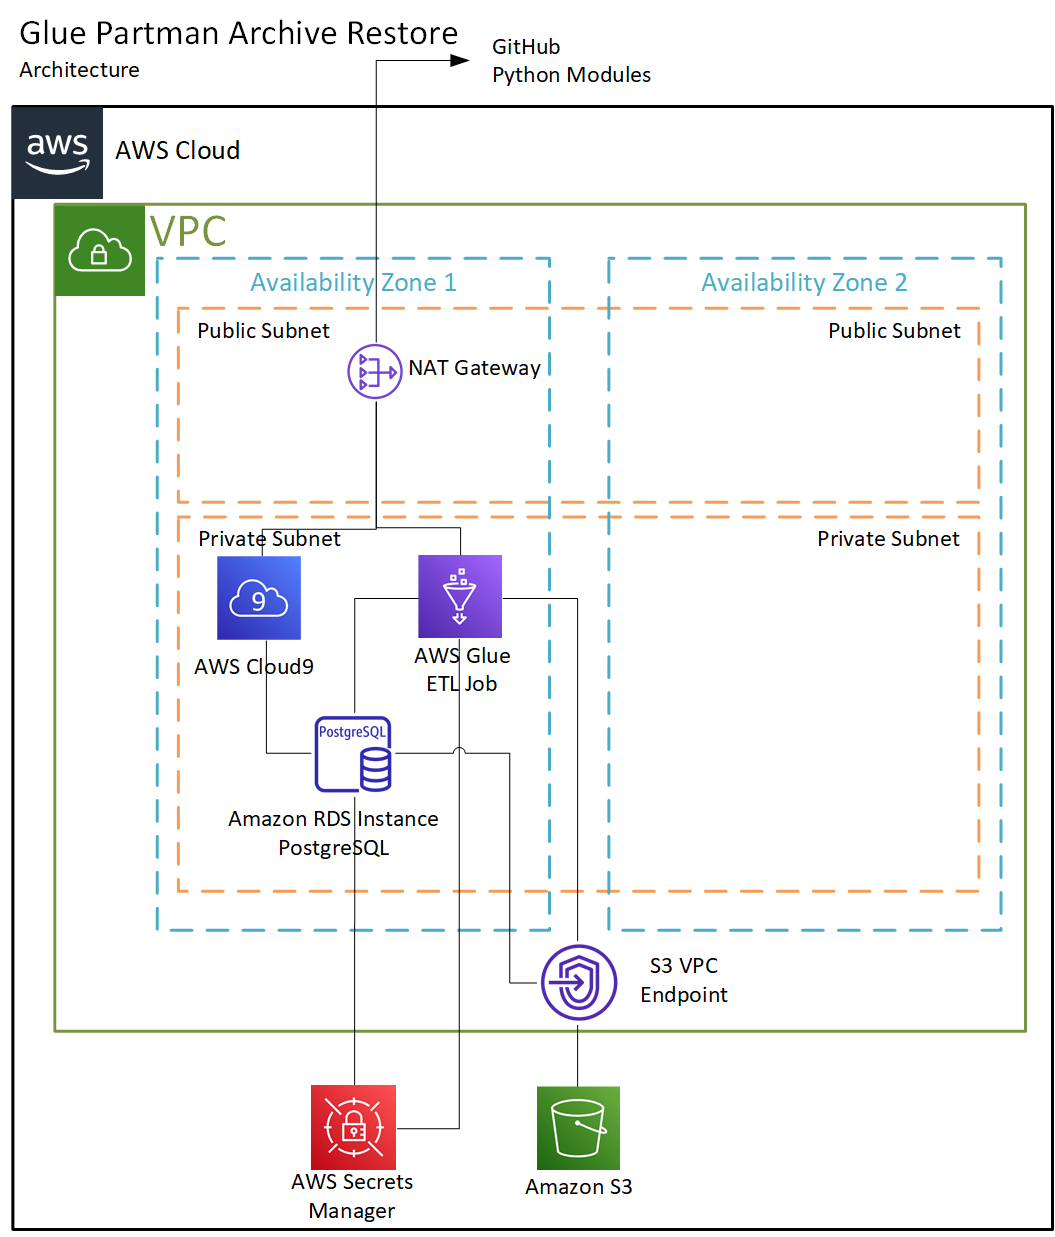
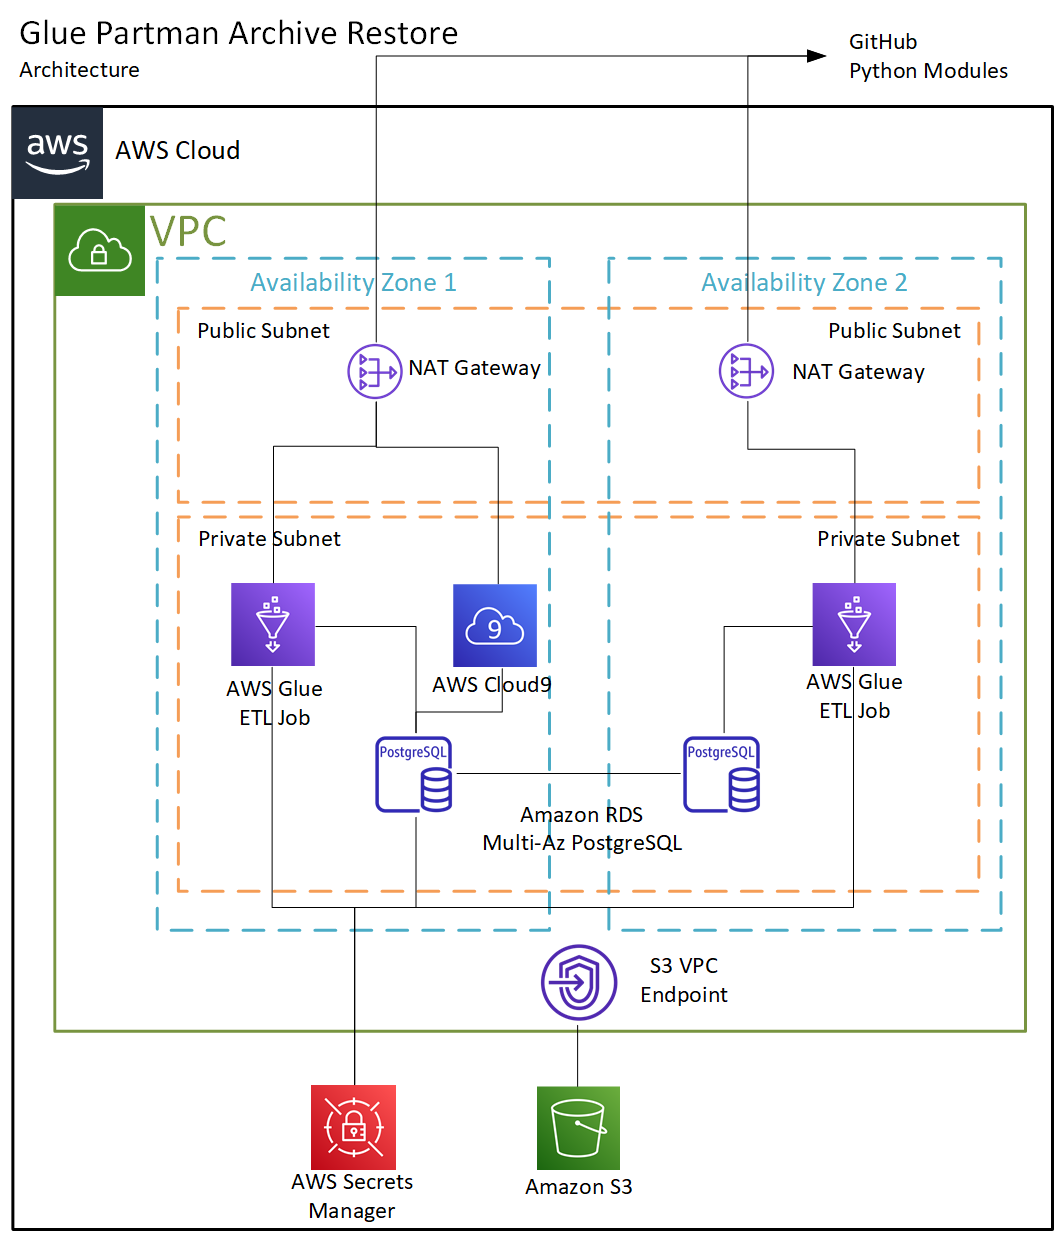
modified:   cdk_glue_archive_restore/db_stack.py 	modified:   cdk_glue_archive_restore/glue_stack.py 	modified:   cdk_glue_archive_restore/vpc_stack.py 	modified:   images/architecture.png

diff --git a/cdk_glue_archive_restore/glue_stack.py b/cdk_glue_archive_restore/glue_stack.py
@@ -189,6 +189,26 @@ class GlueStack(Stack):
                 },
                 physical_connection_requirements = glue.CfnConnection.PhysicalConnectionRequirementsProperty(
                     security_group_id_list = [db_stack.db_security_group.security_group_id, glue_security_group.security_group_id],
+                    subnet_id = vpc_stack.private_subnets.subnets[0].subnet_id,
+                    availability_zone = vpc_stack.private_subnets.subnets[0].availability_zone,
+                )
+            )
+        )
+        connection_name_b = "Database Ab"
+        glue_connection_b = glue.CfnConnection(self, connection_name_b,
+            catalog_id = self.account,
+            connection_input = glue.CfnConnection.ConnectionInputProperty(
+                name = connection_name_b,
+                description = "Connector to postgres database",
+                connection_type = "JDBC",
+                connection_properties = {
+                    "JDBC_CONNECTION_URL" : jdbc_url,
+                    "SECRET_ID" : db_secret.secret_name,
+                    "JDBC_ENFORCE_SSL" : False,
+                    "KAFKA_SSL_ENABLED" : False,
+                },
+                physical_connection_requirements = glue.CfnConnection.PhysicalConnectionRequirementsProperty(
+                    security_group_id_list = [db_stack.db_security_group.security_group_id, glue_security_group.security_group_id],
                     subnet_id = vpc_stack.private_subnets.subnets[1].subnet_id,
                     availability_zone = vpc_stack.private_subnets.subnets[1].availability_zone,
                 )
@@ -205,7 +225,7 @@ class GlueStack(Stack):
             ),
             role = glue_role.role_name,
             connections = glue.CfnJob.ConnectionsListProperty(
-                connections = [connection_name],
+                connections = [connection_name, connection_name_b],
             ),
             description = "Archive cold partition table to S3",
             execution_property = glue.CfnJob.ExecutionPropertyProperty(
@@ -230,7 +250,7 @@ class GlueStack(Stack):
             ),
             role = glue_role.role_name,
             connections = glue.CfnJob.ConnectionsListProperty(
-                connections = [connection_name],
+                connections = [connection_name, connection_name_b],
             ),
             description = "Restore partition table from S3",
             execution_property = glue.CfnJob.ExecutionPropertyProperty(
@@ -255,7 +275,7 @@ class GlueStack(Stack):
             ),
             role = glue_role.role_name,
             connections = glue.CfnJob.ConnectionsListProperty(
-                connections = [connection_name],
+                connections = [connection_name, connection_name_b],
             ),
             description = "Partman run.maintenance",
             execution_property = glue.CfnJob.ExecutionPropertyProperty(

diff --git a/cdk_glue_archive_restore/db_stack.py b/cdk_glue_archive_restore/db_stack.py
@@ -88,10 +88,10 @@ class DbStack(Stack):
             s3_import_role = s3_import_role,
             s3_export_role = s3_export_role,
             storage_encrypted = True,
+            multi_az = True,
         )
         self.glueDB.add_rotation_single_user()
         NagSuppressions.add_resource_suppressions(self.glueDB, [
-                {"id": 'AwsSolutions-RDS3', "reason": 'DB is single instance to reduce costs', },
                 {"id": 'AwsSolutions-RDS10', "reason": 'Deletion protection deliberately disabled - so that DB deletes when demo is over', },
                 {"id": 'AwsSolutions-RDS11', "reason": 'DB uses the default port for this demo', },
             ]

diff --git a/cdk_glue_archive_restore/vpc_stack.py b/cdk_glue_archive_restore/vpc_stack.py
@@ -55,7 +55,7 @@ class VpcStack(Stack):
                     cidr_mask = 24
                 )
             ],
-            nat_gateways = 1,
+            nat_gateways = 2,
             gateway_endpoints={
                 "s3" : ec2.GatewayVpcEndpointOptions(
                     service = ec2.GatewayVpcEndpointAwsService.S3
